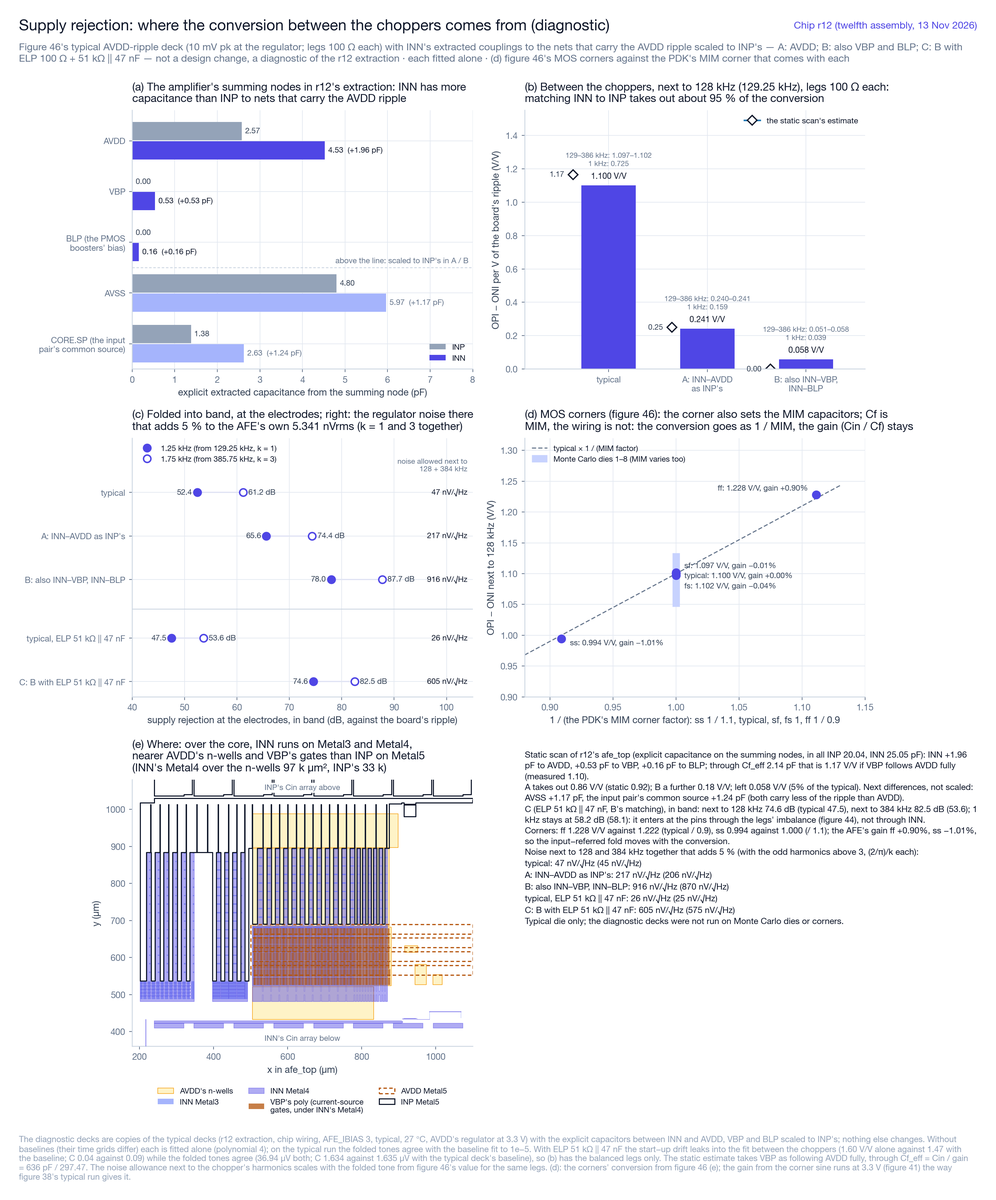
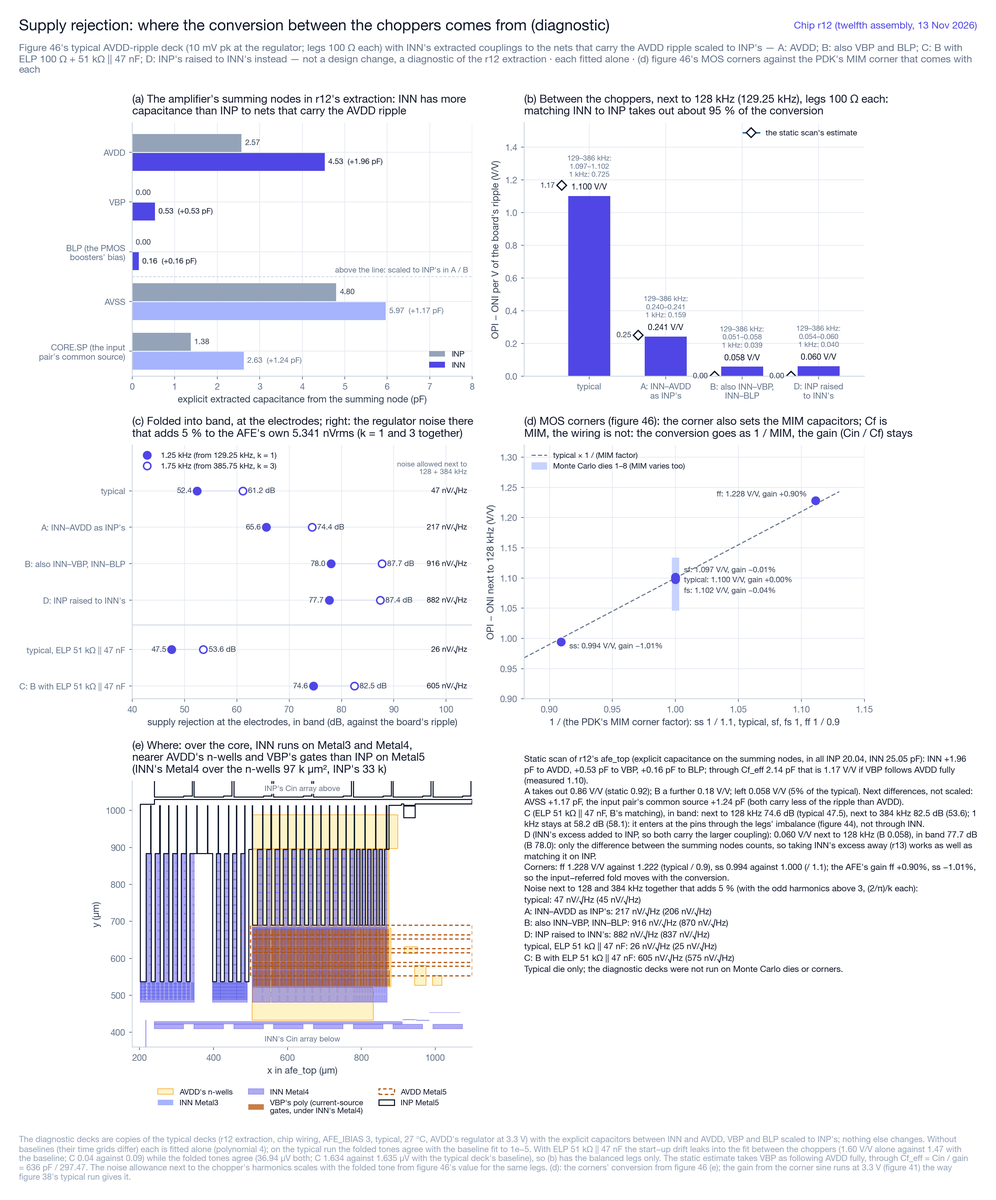
GF180 D7（11/19）：PSRR の診断 D の結果と図 47 への追加。INN の余分（AVDD へ 1.957 pF、VBP へ 0.534 pF、BLP へ 0.156 pF）を INP 側にも付加し、加算点間の差を解消した診断デッキ（r12、typical、電極釣り合い）を 13 時 5 分〜17 時 45 分にターミナルのタブで 10 ms まで実行（「Timestep too small」の発生なし）。チョッパ間の変換は 128 kHz 近傍で 0.060 V/V、帯域内は 128 kHz 近傍 77.7 dB、384 kHz 近傍 87.4 dB、許容雑音 882 nV/

diff --git a/first_tapeout_eeg/gf180/tapeout/viz/psrr_diag_fig.py b/first_tapeout_eeg/gf180/tapeout/viz/psrr_diag_fig.py
@@ -3,7 +3,8 @@
 
 psrr_diag.py's results (gf180/tapeout/pex/runs/psrr_r12/diag.json) and psrr.py's (results.json): the typical
 AVDD-ripple start deck of figure 46 with INN's extracted couplings to the nets that carry the AVDD ripple scaled to
-INP's (A: AVDD; B: also VBP and BLP; C: B with ELP 100 ohm + 51 kohm || 47 nF). Not a design change.
+INP's (A: AVDD; B: also VBP and BLP; C: B with ELP 100 ohm + 51 kohm || 47 nF; D: the other way, INP's raised to
+INN's by adding INN's excess to INP). Not a design change.
   (a) the summing nodes' extracted capacitance to those nets, INN against INP;
   (b) the conversion between the choppers next to 128 kHz, measured and from the static scan;
   (c) what the output chopper folds into band, at the electrodes;
@@ -38,7 +39,8 @@ NETS = [("AVDD/AVDD", "AVDD"), ("VBP/VBP", "VBP"), ("BLP/BLP", "BLP (the PMOS\nb
         ("CORE.SP/CORE.SP", "CORE.SP (the input\npair's common source)")]
 SCALED = 3                                            # the first three are the ones A / B scale
 LABEL = {"typical": "typical", "A": "A: INN–AVDD\nas INP's", "B": "B: also INN–VBP,\nINN–BLP",
-         "typical, ELP 51k||47n": "typical, ELP\n51 kΩ || 47 nF", "C": "C: B with ELP\n51 kΩ || 47 nF"}
+         "typical, ELP 51k||47n": "typical, ELP\n51 kΩ || 47 nF", "C": "C: B with ELP\n51 kΩ || 47 nF",
+         "D": "D: INP raised\nto INN's"}
 
 
 def minus(s):
@@ -62,7 +64,8 @@ def main():
                    + (", interim)" if interim else ")"),
                    "Figure 46's typical AVDD-ripple deck (10 mV pk at the regulator; legs 100 Ω each) with INN's extracted "
                    "couplings to the nets that carry the AVDD ripple scaled to INP's — A: AVDD; B: also VBP and BLP; C: B "
-                   "with ELP 100 Ω + 51 kΩ || 47 nF — not a design change, a diagnostic of the r12 extraction · each "
+                   "with ELP 100 Ω + 51 kΩ || 47 nF; D: INP's raised to INN's instead — not a design change, a diagnostic "
+                   "of the r12 extraction · each "
                    "fitted alone · (d) figure 46's MOS corners against the PDK's MIM corner that comes with each",
                    note=minus(
                        "The diagnostic decks are copies of the typical decks (r12 extraction, chip wiring, AFE_IBIAS 3, "
@@ -102,14 +105,14 @@ def main():
 
     # (b) the conversion between the choppers, legs 100 ohm
     ax = fig.add_subplot(gs[0, 1])
-    names = [n for n in ("typical", "A", "B") if n in runs]
+    names = [n for n in ("typical", "A", "B", "D") if n in runs]
     for i, n in enumerate(names):
         r = runs[n]
         v = tone(r, 1)["between_vv"]
         ax.bar(i, v, width=0.55, color=ACCENT)
         hi = [tone(r, k)["between_vv"] for k in (1, 2, 3)]
         ax.text(i, v + 0.03, f"{v:.3f} V/V", ha="center", va="bottom", fontsize=7.8, color=INK, fontweight="medium")
-        ax.text(i, v + 0.11, f"129–386 kHz: {min(hi):.3f}–{max(hi):.3f}\n1 kHz: {tone(r, 0)['between_vv']:.3f}",
+        ax.text(i, v + 0.11, f"129–386 kHz:\n{min(hi):.3f}–{max(hi):.3f}\n1 kHz: {tone(r, 0)['between_vv']:.3f}",
                 ha="center", va="bottom", fontsize=6.9, color=MUTED, linespacing=1.3)
         p = d["static_pred_vv"].get(n)
         if p is not None:
@@ -127,9 +130,9 @@ def main():
 
     # (c) folded into band
     ax = fig.add_subplot(gs[1, 0])
-    rows = ["typical", "A", "B", "typical, ELP 51k||47n", "C"]
+    rows = ["typical", "A", "B", "D", "typical, ELP 51k||47n", "C"]
     for i, n in enumerate(rows):
-        yy = i + (0.35 if i >= 3 else 0)
+        yy = i + (0.35 if i >= 4 else 0)
         if n not in runs:
             ax.text(64, yy, "running", va="center", ha="center", fontsize=7.6, color=MUTED)
             continue
@@ -143,8 +146,8 @@ def main():
         ax.text(104, yy, density(r["allowed_13"]), ha="right", va="center", fontsize=7.4, color=INK)
     ax.text(104, -0.62, "noise allowed next to\n128 + 384 kHz", ha="right", va="center", fontsize=7.0, color=MUTED,
             linespacing=1.2)
-    ax.axhline(2.68, color="#cbd5e1", lw=0.8)
-    ax.set_yticks([i + (0.35 if i >= 3 else 0) for i in range(len(rows))])
+    ax.axhline(3.68, color="#cbd5e1", lw=0.8)
+    ax.set_yticks([i + (0.35 if i >= 4 else 0) for i in range(len(rows))])
     ax.set_yticklabels([LABEL[n].replace("\n", " ") for n in rows], fontsize=8)
     ax.set_ylim(len(rows) - 0.3, -1.25)
     ax.set_xlim(40, 105)
@@ -238,6 +241,12 @@ def main():
                      f"({tone(u, 3)['psrr_board_db']:.1f}); 1 kHz stays at {tone(c_, 0)['psrr_board_db']:.1f} dB "
                      f"({tone(u, 0)['psrr_board_db']:.1f}): it enters at the pins through the legs' imbalance (figure 44), "
                      "not through INN.")
+    if "D" in runs and "B" in runs:
+        dd, bb = runs["D"], runs["B"]
+        items.append(f"D (INN's excess added to INP, so both carry the larger coupling): {tone(dd, 1)['between_vv']:.3f} V/V "
+                     f"next to 128 kHz (B {tone(bb, 1)['between_vv']:.3f}), in band {tone(dd, 1)['psrr_board_db']:.1f} dB "
+                     f"(B {tone(bb, 1)['psrr_board_db']:.1f}): only the difference between the summing nodes counts, so taking "
+                     "INN's excess away (r13) works as well as matching it on INP.")
     ff, ss = cs.get("ff"), cs.get("ss")
     if ff and ss:
         items.append(f"Corners: ff {ff['between_vv']:.3f} V/V against {ff['pred_vv']:.3f} (typical / 0.9), ss "
@@ -246,7 +255,7 @@ def main():
                      "with the conversion.")
     items.append("Noise next to 128 and 384 kHz together that adds 5 % (with the odd harmonics above 3, (2/π)/k each):")
     rows = [f"  {LABEL[n].replace(chr(10), ' ')}: {density(runs[n]['allowed_13'])} ({density(runs[n]['allowed_odd'])})"
-            for n in ("typical", "A", "B", "typical, ELP 51k||47n", "C") if n in runs]
+            for n in ("typical", "A", "B", "D", "typical, ELP 51k||47n", "C") if n in runs]
     items.append("\n".join(rows))
     items.append("Typical die only; the diagnostic decks were not run on Monte Carlo dies or corners.")
     txt = "\n".join(V.wrap(minus(x), 6.0, 8.2) for x in items)

diff --git a/first_tapeout_eeg/gf180/tapeout/pex/psrr_diag.py b/first_tapeout_eeg/gf180/tapeout/pex/psrr_diag.py
@@ -27,6 +27,9 @@ against the typical deck's 47.5 and 53.6 dB (the noise allowance 605 against 26 
 it enters at the pins through the legs' imbalance, not through INN. Its conversion between the choppers moves with the
 fit (0.04 and 0.09 V/V for k = 1 and 3 swap against the typical deck's baseline) while the folded tones agree (1.634
 against 1.635 uV next to 128 kHz).
+D (11/19 evening, the other way: INN's excess added to INP, legs 100 ohm): 0.060 V/V next to 128 kHz, in band 77.7 dB
+next to 128 kHz and 87.4 dB next to 384 kHz, the same as B (0.058 V/V, 78.0 and 87.7 dB): only the difference between
+the summing nodes converts the ripple; a coupling both carry alike does not (r13 takes INN's excess away).
 
 Usage: gf180/tools/venv310/bin/python gf180/tapeout/pex/psrr_diag.py --make     (writes runs/psrr_r12/diag_A, _B, _C)
        gf180/tools/venv310/bin/python gf180/tapeout/pex/psrr_diag.py --layout   (runs/psrr_r12/diag_layout.json)

diff --git a/first_tapeout_eeg/documentation/gf180_tapeout_tracker.md b/first_tapeout_eeg/documentation/gf180_tapeout_tracker.md
@@ -103,7 +103,7 @@
 | D4 | L3：AFE＋ADC＋DAC セル＋量子化器の短窓トランジスタ E2E。10/22：`gf180/tapeout/sim/e2e/e2e_deck.py`（AFE とそのクロックドライバ、ADC ブロック、バイアス生成、基準電圧のフィルタ。typical）で 70 µs を回した。16 kHz・フルスケールの正弦波で、AFE の出力（チョッパ周期の平均）の利得 268.9（周期平均の sinc を除くと約 276）、ADC まで含めた全体 282、量子化の残差 0.031（DAC の段の単位、ADC 単体と同じ）、AVDD 27.2 mA。窓が 16 kHz の 0.8 周期しかないので、利得の精度は数 %。AFE_RST を解除した瞬間の入力が Cin に残る起動時の現象を見つけた（AFE の文書）。1 本 45〜75 分。10/24：寄生込みの E2E（`gf180/tapeout/pex/pex_e2e.py`、`gf180_pex_20261023.md` の「寄生込みの E2E」、図 `documentation/figures/gf180/r9_20261029/e2e_pex/gf180_e2e_pex_r9_*.png`）。AFE と ADC を最終のチップ（B7、B4 の直し込み）の抽出に差し替え、Ch-A を横切る OUTP／OUTN のチップの配線（74／70 fF、片側 35.6 Ω）も足して、回路図と比べた。AFE の利得 291.4（回路図 291.5、配線込み 290.9）、全体 301.2〜301.9、AVDD 27.2 mA、O2 −33〜+34 mV で同等。量子化の残差は寄生込みで約 2 倍（0.017 → 0.032、帯域の外）。リセットの解除のあとの相 A／B の不釣り合い（寄生込みで 19 mV、時定数 143 µs で抜ける）で、ADC の入力の瞬時値は最大 297 mV（フルスケール 300 mV の内側）。仕様を外れるものはない。10/25：4 回目のチップ（電極の DC 電流の直しのあと）の抽出で回し直した。AFE の利得 291.3（配線込み 290.8）、全体 301.5〜302.5、量子化の残差 0.028／0.021。相 A／B の不釣り合いは 19 → −2.6 mV（その大きさは入力チョッパのクロックの結合の WP／WN の差で決まっていた）、ADC の入力の瞬時値は ±287 mV で回路図と同じ。10/26：5 回目のチップ（WN の配線抵抗の直しのあと）でも回し直し、ほぼ同じ（相 A／B −2.7 mV、量子化の残差 0.026／0.021、ADC の入力 ±287 mV）。10/26 夜：6 回目のチップ（Magic DRC の直しのあと）でも回し直し、ほぼ同じ（AFE の利得 291.3、相 A／B −2.7 mV、量子化の残差 0.025／0.021、ADC の入力 ±287 mV）。10/30：9 回目のチップ（ADC は C1・C2 を 1.25 倍にした 7 回目の抽出、AFE は 6 回目と同じ）で回し直した（`runs/e2e_r7/`。d4 と sch も今の回路図で）：AFE の利得 291.3（配線込み 290.8）、全体 299.8〜300.4、量子化の残差 0.016／0.017（回路図 0.017。寄生込みで増えなくなった）、相 A／B −2.7 mV、ADC の入力 ±287 mV。11/9：10 回目のチップ（量子化器のラッチのグラウンドを AVSS につないだ ADC の抽出）で 4 通りとも回し直し、すべて同じ値（`runs/e2e_r10/`。抽出は基板を AVSS とするので、前からラッチは AVSS につながった形で計算されていた）。11/13：11 回目と 12 回目の抽出でも回した（`runs/e2e_r11/`、`runs/e2e_r12/`）。寄生込みは AFE の利得 291.4、全体 299.8／300.4、残差 0.019／0.019。チップの配線込み（pexchip。OUTP／OUTN が約 20 Ω 長くなった）は 290.6、299.9／299.5、0.018／0.014 で、r10 と同じ大きさ。残り：コーナー | 11/17 | ▶（typical ✅、寄生込み ✅） |
 | D5 | 今回 rev の構成決定レビュー。判断が要るもの：ADC のポリ抵抗のフリッカ（11/12、D7、図 33。PDK の大きさを今の電流でとると、フルスケールで 16.26 bit）。11/12 に直す案を調べた（`gf180_realistic_eval_20261028.md` の「RIN と DAC1 を ppolyf_u に替える案」、図 `plan_20261112`、設計はまだ変えていない）：1 単位（300 kΩ）を幅 0.8 µm の ppolyf_u 2 本の直列にすると、雑音 0.069 倍で、フルスケールでも 16.57 bit。抵抗の間を 0.4 µm にし、OTA1 と第 2 段を東へ 28.9 µm ずらせば ADC に収まる（外形は同じ）。角は今と同じ ±20 %、温度による変化は約 1/10。DAC1 は偶成分が要求の 1/90 以下のまま、出力の電位差への感度が 1.59 倍（ループの HD3 約 −129 dBc）、BRK の時間は同じ。R21 も替えるとよい。替えるなら ADC のレイアウト、DRC／LVS、precheck、PEX、DAC1 とループの確認、通し（約 54 時間）をやり直す（1 週間ほど）。替えないなら、フルスケールの 16.26 bit を予測として明記し、チップで測る。勧めは替えるほう（ENOB はフルスケールに近い正弦波で測るため）。**11/12 にユーザーが替えると決めた**（RIN と DAC1、勧めのとおり R21 も ppolyf_u に。11 回目のチップで作業する。走っている 10 回目の通しは r10 の抽出だけを読むので、止めずに進める）。11/12〜13：11 回目のチップで替えた（E4）。作ったままの抵抗でフリッカを計算し直し、フルスケールで 0.29 nVrms、16.57 bit（入力が小さいときと同じ。`runs/adc_flicker_r11`）。11/13：外から指摘のあった、敏感な網の下を通るクロックとデータの線を、ユーザーの判断で 12 回目で直した（E3、E4）。AFE の通路の覆いで電極の DC 電流が ±1.56 → ±1.71 nA になるが、ユーザーの判断で覆いは残した。**発注の候補は r12**（E8）。**11/18 の構成決定（ユーザーの判断）**：チップは r12 のまま。AVDD は調整できるレギュレータでダイごとに合わせる（F2）。DAC で打ち消したオフセットの電流のためにチップは直さず、限界として記録する（D7、勧めに対する返事「go」）。**11/19 の判断（ユーザー）**：AVDD の 128 kHz の奇数倍のそばの PSRR のために、r13 で増幅器の入力 INN の配線を直す（D7、勧めのとおり。返事「r13 で直す」）。発注の候補は、r13 が DRC、LVS、precheck と性能の回し直しを通るまで r12 のまま | 11/19 | ▶ |
 | D6 | L4：重要ブロックの PEX 確認（チョッパの寄生結合、AFE 入力節点、積分器・DAC）。10/23：magic で寄生容量を抽出し（ネット名は KLayout の LVS の結果で回路図に対応づけ、MIM の基板容量は下の板へ補正）、入力の信号経路の配線抵抗は KLayout の R 抽出で求めた。AFE、ADC のループ、DAC1、OTA1 のチョッパを、回路図・抽出した素子だけ・寄生込みの 3 つで比べた（`gf180/tapeout/pex/`、`documentation/gf180_pex_20261023.md`）。寄生容量だけなら差は小さい（AFE の雑音 4.64 → 4.70 nVrms、利得 −0.2 %、HD3 −116 dBc、ADC のループの利得・CM・電流、積分器の整定は同等）。**仕様を外れるもの 4 つ**：① 入力の信号経路の配線抵抗が片側 76／119 Ω（コアの入力対のゲート配線 72／115、Cin の下の板の網 4.0、チョッパの EP／EN 0.35）で、AFE の雑音 19.1 nVrms、約 14.8 bit。② DAC1 の偶成分 0.47〜0.69 fC（要求 0.008 fC）で SNDR 約 70 dB。③ DC 経路のスイッチの CIB2 の結合の非対称で AFE の出力に 39 mV p-p のリップル。④ 量子化器の入力の結合の非対称で判定が平均 +2.4 LSB ずれる。原因と直し方（目標値つき）は文書の「直し方」。直したあと同じ流れで確かめる。10/24：4 件をレイアウトで直し（E3、E4）、チップを組み直して抽出と比較を回し直した（文書の「直したあとの確認」）。4 件とも仕様の内側に戻った：配線抵抗は片側 0.634／0.676 Ω（チップで測定。Cin の下の Metal3 の面は Tesselation）、DAC1 の偶成分 −0.0014 fC（123 dB）、リップル 3.62 mV p-p、量子化器の入力の結合はそろい、ループの残差 0.027。AFE の雑音は寄生込みで 4.81 nVrms、配線抵抗込みで 5.05 nVrms、総残差 6.05〜6.07 nVrms（16.45〜16.46 bit）で、16.50 bit に 0.04〜0.05 bit 足りない（片側 0.35 Ω まで下げるには AFE の配置の変更が要り、今回 rev はこの形）。抽出の補正を直した：magic が MIM の上の板に付ける、下の導体（Cin の下の Metal3 の面など）への容量を下の板へ移す（`pex.py` の `mim_shield`。AFE で WP–INP の見かけの 21.3 pF を消した）。**新しく 1 件が仕様を外れた**（直し方 1、2 の副作用）：INP と増幅器の出力 ONI／OPI の結合（P 側だけ 617／526 fF。コアの上端で INP を Cin のバスへつなぐ Metal5 の下を ONI／OPI の Metal4 が通る）で、フルスケールの HD2 −70 dBc（仕様 −111 dBc 以下）、利得 −2 % 前後。抽出からこの結合だけを除くと HD2 −114 dBc に戻る。E3 で直した（幹線を移して遮蔽、出力部の P 側を N 側の鏡映に。4 つの結合は 9 fF 以下、HD2〜HD5 −113.8／−117.2／−120.9／−137.7 dBc、利得は回路図に戻った）。リップルは 4.00 mV p-p（目標の境、クロックの線と出力の結合の P／N の差。帯域の外なので受け入れ）。チップを組み直した（E7）。2 回目までの歪みの確認は 2 kHz だけで、帯域内の低い周波数の HD2（DC 経路が 1 本で −87 dBc）は B7 の確認で見つかり、DC 経路を対称にして直した（0cb0fff4）。B7 と B4 の直しを入れた最終のチップ（3 回目、10/24）で確かめ直した：帯域内のフルスケールの HD2〜HD5 −132.7／−120.4／−160.9／−144.5 dBc、リップル 2.02 mV p-p、AFE の雑音 4.81 nVrms（配線抵抗込み 5.05）、配線抵抗は片側 0.634／0.676 Ω で変わらず。チップは DRC 違反なし、LVS 一致、穴埋めのあとの全 DRC も違反なし、precheck 通過。**10/25：信号がなくても電極に流れる DC 電流を調べて直した**（文書の「電極に流れる DC 電流（10/25）」）。3 回目の抽出の I_ELP −40.0／I_ELN +33.3 nA（`viz_data.py zin`）のうち、同相の −3.4 nA ずつは ngspice の GMIN による見かけ（抽出の入力 TG が PMOS M=1024・NMOS M=512 の 1 素子ずつで、接合ごとの GMIN が打ち消さない）で、実際は差動 ±36.6 nA。入力チョッパのゲートのクロックの結合が WP と WN で違い（チョッパの中のストラップの並びで WN だけが CIA／NCIA のピンの隣、ゲートの折り返しが WN の面の下、上端の WP の板、OFPH の西の線が WN の面の下）、交換器が電荷を一方の電極から他方へ運んでいた。電極の要求を 1 本あたり 1 nA 以下（1 MΩ で 1 mV）とし、1 MΩ で片側 37 mV（16.5 bit の前提の電極オフセット数 mV を外れる）なので不適合と判断して、E3 のレイアウトで直した：差動 ±1.65 nA（22 分の 1、ポンプに効く結合の差 −90.6 → +0.6 fF）、チップの配線を足して ±1.35 nA。残りはコアの INP／INN の寄生の非対称による（抽出で INP／INN を対称にすると差動 +0.5 nA）。今回 rev はこの値で受け入れる（1 MΩ で片側 1.65 mV、範囲 1 の内側）。雑音 4.811 nVrms、利得 297.89 は変わらない。副作用：チョッパの下の WN の面からゲートのレーンの通路を外したため、WN の W の配線抵抗が 0.339 → 0.570 Ω（通路を渡るのが Cin_N のバス 5 µm だけ）。配線抵抗込みの雑音 5.048 → 5.086 nVrms、総残差 6.05 → 6.08 nVrms（16.46 → 16.45 bit）。直すなら通路の上に WN の Metal5 だけを戻す（`gf180_pex_20261023.md`）。10/25 午後：可視化の図（`gf180_viz_20261024.md`）と、配線抵抗・歪み・寄生込みの E2E を 4 回目のチップで測り直した：帯域内の静的な HD2〜HD5 −165.8／−120.3／−148.9／−145.5 dBc、2 kHz −134.1／−118.2／−143.9／−141.6 dBc（仕様の内側）。10/25 夜：通路の上に WN の Metal5 を戻して直した（5 回目のチップ、E3）：WN の W 0.354 Ω、配線抵抗は両側 1.32 Ω（1.47 nVrms）、配線抵抗込みの雑音 5.049 nVrms、総残差 6.05〜6.07 nVrms（16.45〜16.46 bit、10/24 と同じ）。ポンプに効く結合の差 +0.61 → +0.80 fF、電極の DC 電流 ±1.56 nA、利得 297.89、リップル 2.37 mV p-p。10/26 朝：歪み、寄生込みの E2E、`viz_data.py` の AFE の組も 5 回目の抽出で回し直した（4 回目とほぼ同じ）：帯域内の静的な HD2〜HD5 −167.2／−120.3／−149.0／−145.5 dBc、2 kHz −134.2／−118.1／−143.0／−141.5 dBc、E2E の AFE の利得 291.3、相 A／B −2.7 mV、ADC の入力 ±287 mV。可視化の図 10、16〜24 も描き直した。10/26（6 回目、Magic DRC の直し：抵抗のコンタクトと MIM の Via4）：AFE と DAC1 を抽出し直して確かめた。雑音 4.811 nVrms（配線抵抗込み 5.050）、利得 297.89、リップル 2.37 mV p-p、電極の DC 電流 −1.55／+1.57 nA、DAC1 の偶成分 −0.00135／−0.00125 fC で 5 回目と同じ。配線抵抗の W は Cin の Via4 の分で 0.347／0.357 Ω（+3〜4 mΩ、`gf180_pex_20261023.md`）。10/26 夜：歪み（帯域内の静的な HD2〜HD5 −164.0／−120.3／−148.9／−146.0 dBc、2 kHz −133.9／−118.1／−141.4／−141.1 dBc）、寄生込みの E2E、`viz_data.py` の組、ADC のループ（利得 1.0040、残差 0.0318、判定が理想のしきい値と合うフレーム 91.2 %。3 回目の抽出からの差は 80 フレームの窓の揺れの範囲）、DAC1 の偶成分の行動モデル（123.0 dB）も 6 回目の抽出で回し直した。どれも 5 回目（ADC は 3 回目）とほぼ同じ。可視化の図は版ごとのフォルダ（`documentation/figures/gf180/r6_20261026/`）に全部描き直し、KLayout で描いたレイアウトの図 9 枚を足した。10/30：9 回目のチップ（今の版）の図を `documentation/figures/gf180/r9_20261029/` に全部描き直した。ADC は 7 回目の抽出（ループの利得 0.9974、残差 0.0202、判定 95.0 %、DAC1 の偶成分の行動モデル 123.0 dB）、AFE は 6 回目と同じ抽出、チップの配線を通す結果（雑音、入力経路の配線抵抗、起動、OUTP／OUTN の窓）は 9 回目で取り直した | 10/30 | ✅ |
-| D7 | 実際に近い条件での立ち上がりと性能（10/27〜、`gf180_realistic_eval_20261028.md`）。電源投入から（電源のランプ、`uic`）、RTL のリセットの順序、パッドリング、基板（仮定）とボンディングワイヤ、チップの配線（`pex_chipnets.py`：パッドセル、AVDD／AVSS の網とデカップリング、ブロックの間の配線と結合）、抽出した afe_top／eeg_bias／eeg_ref、モンテカルロ（工程と素子ごと。MIM と抵抗の素子ごとは仮の係数）、AVDD ±5 %（`gf180/tapeout/pex/afe_startup.py`）。雑音はチップの実際の動作点で測る（`afe_chip_noise.py`）。ADC を含めた電源投入からの通しは `e2e_startup.py`。10/28：雑音は上の予算の表のとおり（code 3 で 16.40 bit）。電極 0 V の立ち上がり（code 2、typical・±5 %・モンテカルロ 10）は、解除の 1 周期で −0.08〜−0.40 mV 振れ、7 µs 以内に −0.073 ± 0.002 mV（電極換算 −0.24 µV）に落ち着く。バイアスは電源投入から 0.91〜0.95 ms で 1 % 以内。通しのデッキは電源投入から AFE の解除後 50 µs まで回り、全体の利得 298.3。10/28〜29：AFE_IBIAS code 3 の書き込みを入れたモンテカルロ 30 と ±5 %、電極の DC オフセット、正弦波、VCM の容量 100 nF／1 µF、ADC 側を実際の条件で回した（ADC の C1・C2 を 1.25 倍にした）。10/31：9 回目のチップの配線で起動を回し直した。モンテカルロ 30 と ±5 % はすべて最後まで回り、解除後の出力は −0.075 ± 0.006 mV、0.1 mV まで 12 µs 以内、バイアスは 0.89〜0.97 ms で 1 % 以内で、6 回目と実質同じ。電極の DC オフセットは 300 mV まで打ち消せ、段の大きさは抽出のビットの重みで説明できる（どの範囲でも単調、残差の最大は範囲 1 で 153 µV、範囲 2 以上で 166 µV）。11/2：電源投入から CIC の出力までの通し（r6、r7、10 ms）が最後まで回った。有効な 3 サンプルはどれも RTL とビット一致し、電極から DATA までの利得は 306.6（r6 と r7 のサンプルの差は 7 LSB 以内）。11/8〜9：デジタル側（9 個の bi_24t、ブロックの電源電流、チップの DVDD／DVSS）を、9 回目の通しのチャンク 14 に入れて比べた（`digital_noise.py`）。リングの揺れは 18 → 59 mV p-p、ADC のデジタルの電源は 417 mV p-p。結合で AFE の出力にできる一定のずれは電極換算 0.21 nV で、DATA の約 1 LSB、計算の差（0.13 nV）と同じ大きさ。ADC の符号は 48 フレームとも一致した。この結合は MCLK に同期するので、一定のずれにしかならない。SPI の読み出しでも符号は一致し、周期ごとの差は 0.2 nV rms 以下。11/9：RAW の出力を動かす組（b3）も最後まで回った。AFE の入力の揺れは b1 の約 2 倍（同相 15.2 mV p-p、差動 16.7 µV p-p）になるが、出力の一定のずれは −0.11 nV、周期ごとの残りは 0.11 nV rms で、符号は 48 フレームとも一致した（図 31、`documentation/figures/gf180/r10_20261109/viz/`）。11/11：9 回目のチップの配線での通しも最後まで回った。有効な 3 サンプルはどれも RTL とビット一致し、7 回目より 0.064 % 大きい。差はすべて AFE の利得の差で、AFE の AVSS の持ち上がりが小さくなって AFE の電流が約 1 % 増えたため。ADC 側は 7 回目と同じだった。11/11：図 31 のデッキの ADC を 10 回目の抽出に替えて、5 本を回し直した（b2 は区切り点の近さで一度止まり、MISO を 0.125 ns ずらして回し直した）。5 本とも 48 フレームの ADC の符号が 7 回目の抽出のときと同じだった。結合の一定のずれは電極換算 0.30 nV で、計算の差（0.27 nV）と同じ大きさ。SPI の読み出しと RAW の出力でも、周期ごとの残りは 0.3 nV rms 以下。図 31 を描き直した。11/13：10 回目の通しも最後まで回った。有効な 3 サンプルはどれも RTL とビット一致し、9 回目との差は +4、−1、−3 LSB（1 本の中の続くサンプルどうしの違いと同じ大きさ）、電源と基準は 9 回目と同じ。11 回目の通しは、12 回目に替えたのでチャンク 4 で止めた。11/13：11 回目と 12 回目のチップの配線で雑音を回し直し、9 回目と 0.001 nVrms 以内で同じ（AFE_IBIAS 3 で typical 5.327 nVrms、モンテカルロ 30 の最悪 5.498 nVrms）。11/15：12 回目の起動のバッチは 50 本のうち 32 本が済み（モンテカルロ 18 本）、9 回目と同じ値（バイアス 0.91〜0.95 ms、解除から 0.1 mV まで 9 µs 以内、出力 −0.099 ± 0.006 mV、電極のオフセットの残差は出力で 0.06 mV 以内で同じ）。電源投入をプロセスの角 4 つ × AVDD ±5 % と電源の立ち上がり 10 µs〜100 ms で回し、20 本とも起動した（起動回路は AVDD 0.61〜1.03 V で切れる。図 37、`powerup_checks.py`）。基板への要求に、AVDD と外の基準を DVDD より先に上げないこと（アナログのパッドの ESD ダイオードが DVDD のリングへ向く）と、解除を電源が上がりきってから数えることを足した。11/16：12 回目の起動のバッチ 50 本と通し（71 時間）が終わった。通しの有効な 3 サンプルはどれも RTL とビット一致し、10 回目より −0.175 %（ADC の基準電圧 +0.057 %、AFE の利得 −0.116 %）。角での AFE の解除（図 38）：どの角でも動き出すが、BOOST_TRIM がリセット値 4/4 のままだと、フルスケールの HD3 が ss −97.6、sf −96.8、fs −106.1 dBc で要求（−111 dBc）に届かない。AVDD −5 % ではどのトリムでも届かない。AVDD を上げるとよくなり、3.40 V と角ごとのトリムで 5 つの角が届く。チップの窓は約 3.394〜3.456 V（図 41）。ADC は ADC の電源 3.39 V でも 3.245 V と同じに動く。ただし、typical を地図の 2/2 にすると、AVDD を上げた分だけ AFE の雑音が増える（3.45 V で 5.73 nVrms、予算で 16.47 bit。BTRIM_P を 4 以上にすれば平ら。図 42）。BTRIM_P 4 でも HD3 は届く：チップの HD3 は、typical 4/2 が 3.40 V で −117.0 dBc（2/2 の −116.8 と同じ）、リセット値の 4/4 が 3.40 V で −115.6、3.45 V で −116.4 dBc（要求に 4.6 dB 以上の余裕）。typical のトリムは 4/2 を勧める（雑音は平らで、予算は 3.45 V でも 16.56 bit。窓の上の端は ff 8/2 の約 3.460 V になる）。電極のオフセットで飽和した最初の電源投入（図 39）：書いても増幅器は出力チョッパの後ろで飽和したまま残るので、ホストは書くたびに AFE_RST を 100 µs 上げる（typical と ss で確かめた。ss では typical の M では残差が大きく、M の探索がもう 1 回要る）。パルスなしでも 300 mV は書いてから 2.82 ms で ADC の範囲に戻るが、11 ms でも出力は図 27 より入力換算約 −31 µV ずれ、入力のコモンモード（0.18 V 低い）と一緒に時定数約 47 ms で抜けていく（11/17、11 ms まで回した。パルスなら 0.5 µs で範囲に入り、2.5 ms 後に +0.7 µV）。ADC は過負荷から自分で戻る（最大 0.22 ms、図 40）。デジタル側（図 31）を 12 回目の通しのチャンク 14 で回し直した（4 本、23 時 44 分に済んだ）：48 フレームの ADC の符号はどの組でも一致し、結合の一定のずれは電極換算 0.02 nV（計算の差 0.25 nV より小さい）、SPI の読み出しは +0.42 nV、RAW の出力は +0.64 nV（周期ごとの残り 0.27 nV rms 以下）で、10 回目と同じ大きさ。リングと電源の揺れも 10 回目と同じ。図は 12 回目の 42 枚がそろい（39 は 11/17 に仕上げた）、11/17 に 43 を足した。11/17：PDK にない係数への余裕（図 43）：DAC1 の素子のばらつきを仮の係数の 8 倍にしても ENOB は変わらない（30 ダイの平均 16.60 bit）。入力抵抗の電圧係数は vc2 が約 300 ppm/V² まで 16.5 bit に届く。オフセット DAC は MIM のばらつき 4 倍まで単調で、運転中の窓の内側。チップを直す必要はない。11/17：同相の除去（CMRR）と電極の不釣り合い（`afe_startup.py` に体の同相と電極のインピーダンスを足し、`cmrr.py` で解析。図 44 は途中の版）。1 kHz で、釣り合った電極では 105.4 dB（チップ自身の分）、ELP に 51 kΩ ∥ 47 nF では 50.7 dB で、ほぼ全部が脚の電流が電極のインピーダンスを流れる分。脚 1 本から見た同相は 18.6 nS ∥ 138.5 pF（Cin を通る分 63.6 pF、入力チョッパのスイッチ 65.2 pF、パッドなど 9.7 pF。コンダクタンスのうち 6.1 nS は ngspice の既定の gmin の見かけ）。朝の見込み（−64 dB）はこの容量を落としていて、50 Hz では 54.3〜54.7 dB（100 mV pk の同相で電極換算 184〜193 µV pk）の見込み。11/18：基準（1 時 45 分に済んだ）を差し引いて当てはめ直しても同じ（105.4 dB、50.7 dB）。解除までは脚 1 本の同相が約 795 pF で、不釣り合いの 47 nF に残る電荷が時定数 2.4 ms で窓に入るので、当てはめに指数を足した。AFE_RST を上げているあいだは、チョッパが動いているとピンの差動が約 5.4 kΩ（Cin のスイッチト・キャパシタ。Cpf の打ち消しが働かない）になり、電極の DC オフセットが電極のコンデンサを充電する。51 kΩ ∥ 47 nF と 300 mV では、11/16 の手順（書くたびに 100 µs）で AFE が書いてから約 12 ms 飽和する見込み。図 39 は電極 100 Ω だったので出なかった。AFE_RST と一緒に CHOP_EN（同じ CONTROL）を下げる手順を、2 時 1 分から回して確かめている（`afe_saturation.py --zp --chop-hold`）。11/18：50 Hz の 2 本も 5 時 40 分ごろ 26 ms まで回った（1 周期）。51 kΩ ∥ 47 nF で 54.2 dB（100 mV pk の同相で電極換算 194 µV pk、フルスケールの 21 %。gmin の見かけを除くと 54.6 dB）、釣り合いで 151 dB で、見込みどおり。出力はシミュレーションのピンの差動と 0.04 % で合い（50 Hz の利得 297.58）、ほぼ全部が電極の側。脚のコンダクタンスのうち 12.2 nS は、Cin を通して見える入力のコモンモードの DC 経路（時定数 47 ms）。1 周期の当てはめでは、47 nF の指数をチップの側（脚の電流、体）にも入れると脚のアドミタンスが最大 30 % 動くので、出力とピンだけに入れた（当てはめを変えても 54.14〜54.26 dB）。CMRR のためにチップを直す必要はない。図 44 を仕上げた。11/18 の朝：DAC で打ち消した電極のオフセットには、解除のあとも約 5.4 kΩ がかかることが分かった（図 27 のランで 10〜300 mV とも 5.36〜5.44 kΩ。Cin のスイッチト・キャパシタで、Cpf は出力に出ている分しか補わない）。電極にオフセット / 5.4 kΩ（30 mV で 5.4 µA、300 mV で 54 µA）の DC 電流が流れ、10/23 の要求（電極 1 本 1 nA 以下）を DAC の 1 段（56 nA）から外れる。電極に抵抗 R_e があると、ピンに届くオフセットは 5.4 kΩ / (5.4 kΩ + R_e) 倍（51 kΩ で 300 → 28.4 mV）。未明の見立て（解除のあとは MΩ、書いてから約 12 ms 飽和）はこの点で誤り。D（電極 100 Ω、CHOP_EN を下げる）は、解除のあと入力のコモンモードがはじめから釣り合いにあり、図 27 より出力が電極換算 2.9 µV 釣り合いに近い。RTL のリセット値は変えないことを勧める。この DC 電流のために今回 rev でチップを直すことはせず、限界として記録する（11/18、朝の勧めに対する返事「go」）。B（51 kΩ ∥ 47 nF、M 983、CHOP_EN を下げる。6 時 21 分に 10 ms まで回った）：解除のときピンは 116 mV で、M 983（295.8 mV）に対して AFE は逆向きに飽和したまま残り、チップがピンを −349 mV へ引く（時定数 0.57 ms、10 ms で −348 mV、電極に 12.7 µA、ADC の入力 −1.80 V）。電極 100 Ω では同じ書き込みで解除と同時に範囲に入る。合わない M を残したまま待たないこと、パルスのあいだもチョッパを動かすことを、手順に書く（図 45、途中の版）。E、F（M 94、パルス 1 ms と 100 µs。8 時 47 分から回し直し、11 時 58 分に 10 ms まで回った）は、どちらも増幅器の入力 +5.0 mV（ADC の入力 +1.0 V）に落ち着き、範囲に戻らなかった。パルスの長さは行き着く先を変えず、行き着く先は M で決まる。M 94 は、ピンの単純な平均（28.4 mV）に合わせたもので、増幅器が取り込むチョッパの切り替えの直前の値（約 1.3 mV 高い）に合っていなかった。読み（見立て）：解除のあとは DAC で打ち消した分だけが電流を流す（M × 0.301 mV / 5.56 kΩ）ので、電極の電圧降下が M で動き、M の 1 段は増幅器の入力で 0.301 mV × (1 + R_e / 5.56 kΩ)、51 kΩ で約 3 mV（ADC の範囲 ±1.63 mV とほぼ同じ）。最良の M でも最大 ±1.5 mV が残り、約 55 kΩ（R_sc 5.67 kΩ）を超えると範囲に入らないオフセットが出る。原因は DAC で打ち消したオフセットの電流と同じ。G（M 98、99、100、パルス 1 ms。15 時 42〜46 分に 10 ms まで回った）で確かめた：範囲に入るのは M 100 だけで、ホストの読み（ADC の入力 / 297.5）は M 100 で −0.79 mV、M 99 で +1.63 mV（範囲の端）、M 98 で +2.55 mV、M 94 で +3.33 mV に落ち着く。範囲の中ではチップは電極から見て電流源（M × 0.301 mV / 5.67 kΩ。電極は 51 kΩ × 47 nF = 2.4 ms で動く）で、1 段は 3.0 mV（M 99 → 100 は範囲の端の圧縮で 2.42 mV）。範囲の外では Cpf が残差を補いきれず、チップが電極を引き戻す（時定数 0.35〜0.40 ms）。電極の抵抗の変化への感度は電流そのもの（5.3 µV/Ω、範囲の中心から 0.3 kΩ で範囲を出る）で、朝に書いた 0.50 µV/Ω（チップを抵抗とみた値）の約 10 倍だった。アクティブ電極なら問題は出ない。チップを直すかを、夕方にユーザーに判断をあおいでいる。A は B から読めるので回し直さない。11/18 の構成決定で、AVDD はダイごとに合わせると決めた（ユーザーの判断。トリムも試験でダイごとに、F2、F4）。11/18 の夜：同相の釣り合いの値を帯域内（チップの CIC が見る値、`cmrr.py` の inband）で測り直した。1 kHz の 105.4 dB（0.52 µV）は、チョッパの間で起きる変換（出力のチョッパで ADC の入力に矩形波として出る。同相 97.5 mV pk で 104.7 mV pk、50 Hz では 99.95 mV pk で 7.1 mV）を、チョッパ周期の平均が折り返した見かけで、帯域内では 148 dB（50 Hz は 147 dB）。不釣り合いの値は 0.13 % 以内で同じで、結論は変わらない。図 44 を直した。実際のレギュレータの PSRR は、21 時 44 分から AVDD と DVDD のリップル（電極は釣り合いと 51 kΩ ∥ 47 nF）を回している（`afe_startup.py --rip`、`psrr.py`）。11/19：PSRR の typical（図 46）。低い周波数のリップルはチョッパで除かれる（釣り合いで AVDD の 1 kHz 139 dB、DVDD 197 dB）。AVDD の 128 kHz の奇数倍のそばは、チョッパの間の変換（増幅器の出力に 1.10 V/V）が出力のチョッパで帯域に戻り、52.4 dB（384 kHz のそばは 61.2 dB、偶数倍は 132 dB）。51 kΩ ∥ 47 nF では帯域内の AVDD が 50 Hz で 62.5 dB（脚 1 本の AVDD への 59 pF：入力スイッチのウェル 24、Cin を通る分 24、残り 11）。基板への要求を F2 の (4) に書いた。モンテカルロ 8 と MOS の角 4 を 1 時 8 分〜7 時 57 分に回した。8 ダイは 128 kHz のそばで 52.1〜52.8 dB、チョッパの間の変換 1.05〜1.13 V/V で typical と同じ（ミスマッチではない）。角は ff が 51.5 dB（1.23 V/V）、ss が 53.2 dB（0.99 V/V）。F2 の (4) を ff から約 40 nV/√Hz に決め直した。変換の出どころ：抽出では INN が INP より AVDD に 1.96 pF、VBP に 0.53 pF、BLP に 0.16 pF 多い。この容量を INP にそろえた診断（A：AVDD、B：VBP と BLP も。設計の変更ではない）で、変換は 1.10 → 0.241 → 0.058 V/V、128 kHz のそばは 52.4 → 65.6 → 78.0 dB（図 47）。変換の約 95 % は INN の余分な配線の容量から来る。場所は増幅器のコアの上で、INN は Metal3 と Metal4、INP は Metal5 を通る（INN の Metal4 が AVDD の n-well の上に 97,000 µm²、VBP のゲートの上に 38,000 µm²）。角で動くのは、PDK の角が MIM の角（ff 0.9 倍、ss 1.1 倍）も変え、変換が MIM の Cf に反比例するため（AFE の利得は 1 % 以内）。ELP に 51 kΩ ∥ 47 nF でそろえた C（12 時 34 分）でも、128 kHz のそばは 47.5 → 74.6 dB、384 kHz のそばは 53.6 → 82.5 dB、許せる雑音は 26 → 605 nV/√Hz（1 kHz の 58.1 dB は、ピンで脚の不釣り合いから入る分なので変わらない）。**11/19 の 13 時に、ユーザーが r13 で INN の配線を直すと決めた。** 直し方を選ぶため、INN の余分を INP に足した診断 D（INP から AVDD に +1.96 pF、VBP に +0.53 pF、BLP に +0.16 pF）を 13 時 5 分からターミナルのタブで回している。BLP は PMOS のブースタのバイアス（AVDD の側）で、INP の相手は同じ BLP（前は BLN と書いていたが、どちらも 0 fF で A〜C は同じ） | 11/19 | ▶ |
+| D7 | 実際に近い条件での立ち上がりと性能（10/27〜、`gf180_realistic_eval_20261028.md`）。電源投入から（電源のランプ、`uic`）、RTL のリセットの順序、パッドリング、基板（仮定）とボンディングワイヤ、チップの配線（`pex_chipnets.py`：パッドセル、AVDD／AVSS の網とデカップリング、ブロックの間の配線と結合）、抽出した afe_top／eeg_bias／eeg_ref、モンテカルロ（工程と素子ごと。MIM と抵抗の素子ごとは仮の係数）、AVDD ±5 %（`gf180/tapeout/pex/afe_startup.py`）。雑音はチップの実際の動作点で測る（`afe_chip_noise.py`）。ADC を含めた電源投入からの通しは `e2e_startup.py`。10/28：雑音は上の予算の表のとおり（code 3 で 16.40 bit）。電極 0 V の立ち上がり（code 2、typical・±5 %・モンテカルロ 10）は、解除の 1 周期で −0.08〜−0.40 mV 振れ、7 µs 以内に −0.073 ± 0.002 mV（電極換算 −0.24 µV）に落ち着く。バイアスは電源投入から 0.91〜0.95 ms で 1 % 以内。通しのデッキは電源投入から AFE の解除後 50 µs まで回り、全体の利得 298.3。10/28〜29：AFE_IBIAS code 3 の書き込みを入れたモンテカルロ 30 と ±5 %、電極の DC オフセット、正弦波、VCM の容量 100 nF／1 µF、ADC 側を実際の条件で回した（ADC の C1・C2 を 1.25 倍にした）。10/31：9 回目のチップの配線で起動を回し直した。モンテカルロ 30 と ±5 % はすべて最後まで回り、解除後の出力は −0.075 ± 0.006 mV、0.1 mV まで 12 µs 以内、バイアスは 0.89〜0.97 ms で 1 % 以内で、6 回目と実質同じ。電極の DC オフセットは 300 mV まで打ち消せ、段の大きさは抽出のビットの重みで説明できる（どの範囲でも単調、残差の最大は範囲 1 で 153 µV、範囲 2 以上で 166 µV）。11/2：電源投入から CIC の出力までの通し（r6、r7、10 ms）が最後まで回った。有効な 3 サンプルはどれも RTL とビット一致し、電極から DATA までの利得は 306.6（r6 と r7 のサンプルの差は 7 LSB 以内）。11/8〜9：デジタル側（9 個の bi_24t、ブロックの電源電流、チップの DVDD／DVSS）を、9 回目の通しのチャンク 14 に入れて比べた（`digital_noise.py`）。リングの揺れは 18 → 59 mV p-p、ADC のデジタルの電源は 417 mV p-p。結合で AFE の出力にできる一定のずれは電極換算 0.21 nV で、DATA の約 1 LSB、計算の差（0.13 nV）と同じ大きさ。ADC の符号は 48 フレームとも一致した。この結合は MCLK に同期するので、一定のずれにしかならない。SPI の読み出しでも符号は一致し、周期ごとの差は 0.2 nV rms 以下。11/9：RAW の出力を動かす組（b3）も最後まで回った。AFE の入力の揺れは b1 の約 2 倍（同相 15.2 mV p-p、差動 16.7 µV p-p）になるが、出力の一定のずれは −0.11 nV、周期ごとの残りは 0.11 nV rms で、符号は 48 フレームとも一致した（図 31、`documentation/figures/gf180/r10_20261109/viz/`）。11/11：9 回目のチップの配線での通しも最後まで回った。有効な 3 サンプルはどれも RTL とビット一致し、7 回目より 0.064 % 大きい。差はすべて AFE の利得の差で、AFE の AVSS の持ち上がりが小さくなって AFE の電流が約 1 % 増えたため。ADC 側は 7 回目と同じだった。11/11：図 31 のデッキの ADC を 10 回目の抽出に替えて、5 本を回し直した（b2 は区切り点の近さで一度止まり、MISO を 0.125 ns ずらして回し直した）。5 本とも 48 フレームの ADC の符号が 7 回目の抽出のときと同じだった。結合の一定のずれは電極換算 0.30 nV で、計算の差（0.27 nV）と同じ大きさ。SPI の読み出しと RAW の出力でも、周期ごとの残りは 0.3 nV rms 以下。図 31 を描き直した。11/13：10 回目の通しも最後まで回った。有効な 3 サンプルはどれも RTL とビット一致し、9 回目との差は +4、−1、−3 LSB（1 本の中の続くサンプルどうしの違いと同じ大きさ）、電源と基準は 9 回目と同じ。11 回目の通しは、12 回目に替えたのでチャンク 4 で止めた。11/13：11 回目と 12 回目のチップの配線で雑音を回し直し、9 回目と 0.001 nVrms 以内で同じ（AFE_IBIAS 3 で typical 5.327 nVrms、モンテカルロ 30 の最悪 5.498 nVrms）。11/15：12 回目の起動のバッチは 50 本のうち 32 本が済み（モンテカルロ 18 本）、9 回目と同じ値（バイアス 0.91〜0.95 ms、解除から 0.1 mV まで 9 µs 以内、出力 −0.099 ± 0.006 mV、電極のオフセットの残差は出力で 0.06 mV 以内で同じ）。電源投入をプロセスの角 4 つ × AVDD ±5 % と電源の立ち上がり 10 µs〜100 ms で回し、20 本とも起動した（起動回路は AVDD 0.61〜1.03 V で切れる。図 37、`powerup_checks.py`）。基板への要求に、AVDD と外の基準を DVDD より先に上げないこと（アナログのパッドの ESD ダイオードが DVDD のリングへ向く）と、解除を電源が上がりきってから数えることを足した。11/16：12 回目の起動のバッチ 50 本と通し（71 時間）が終わった。通しの有効な 3 サンプルはどれも RTL とビット一致し、10 回目より −0.175 %（ADC の基準電圧 +0.057 %、AFE の利得 −0.116 %）。角での AFE の解除（図 38）：どの角でも動き出すが、BOOST_TRIM がリセット値 4/4 のままだと、フルスケールの HD3 が ss −97.6、sf −96.8、fs −106.1 dBc で要求（−111 dBc）に届かない。AVDD −5 % ではどのトリムでも届かない。AVDD を上げるとよくなり、3.40 V と角ごとのトリムで 5 つの角が届く。チップの窓は約 3.394〜3.456 V（図 41）。ADC は ADC の電源 3.39 V でも 3.245 V と同じに動く。ただし、typical を地図の 2/2 にすると、AVDD を上げた分だけ AFE の雑音が増える（3.45 V で 5.73 nVrms、予算で 16.47 bit。BTRIM_P を 4 以上にすれば平ら。図 42）。BTRIM_P 4 でも HD3 は届く：チップの HD3 は、typical 4/2 が 3.40 V で −117.0 dBc（2/2 の −116.8 と同じ）、リセット値の 4/4 が 3.40 V で −115.6、3.45 V で −116.4 dBc（要求に 4.6 dB 以上の余裕）。typical のトリムは 4/2 を勧める（雑音は平らで、予算は 3.45 V でも 16.56 bit。窓の上の端は ff 8/2 の約 3.460 V になる）。電極のオフセットで飽和した最初の電源投入（図 39）：書いても増幅器は出力チョッパの後ろで飽和したまま残るので、ホストは書くたびに AFE_RST を 100 µs 上げる（typical と ss で確かめた。ss では typical の M では残差が大きく、M の探索がもう 1 回要る）。パルスなしでも 300 mV は書いてから 2.82 ms で ADC の範囲に戻るが、11 ms でも出力は図 27 より入力換算約 −31 µV ずれ、入力のコモンモード（0.18 V 低い）と一緒に時定数約 47 ms で抜けていく（11/17、11 ms まで回した。パルスなら 0.5 µs で範囲に入り、2.5 ms 後に +0.7 µV）。ADC は過負荷から自分で戻る（最大 0.22 ms、図 40）。デジタル側（図 31）を 12 回目の通しのチャンク 14 で回し直した（4 本、23 時 44 分に済んだ）：48 フレームの ADC の符号はどの組でも一致し、結合の一定のずれは電極換算 0.02 nV（計算の差 0.25 nV より小さい）、SPI の読み出しは +0.42 nV、RAW の出力は +0.64 nV（周期ごとの残り 0.27 nV rms 以下）で、10 回目と同じ大きさ。リングと電源の揺れも 10 回目と同じ。図は 12 回目の 42 枚がそろい（39 は 11/17 に仕上げた）、11/17 に 43 を足した。11/17：PDK にない係数への余裕（図 43）：DAC1 の素子のばらつきを仮の係数の 8 倍にしても ENOB は変わらない（30 ダイの平均 16.60 bit）。入力抵抗の電圧係数は vc2 が約 300 ppm/V² まで 16.5 bit に届く。オフセット DAC は MIM のばらつき 4 倍まで単調で、運転中の窓の内側。チップを直す必要はない。11/17：同相の除去（CMRR）と電極の不釣り合い（`afe_startup.py` に体の同相と電極のインピーダンスを足し、`cmrr.py` で解析。図 44 は途中の版）。1 kHz で、釣り合った電極では 105.4 dB（チップ自身の分）、ELP に 51 kΩ ∥ 47 nF では 50.7 dB で、ほぼ全部が脚の電流が電極のインピーダンスを流れる分。脚 1 本から見た同相は 18.6 nS ∥ 138.5 pF（Cin を通る分 63.6 pF、入力チョッパのスイッチ 65.2 pF、パッドなど 9.7 pF。コンダクタンスのうち 6.1 nS は ngspice の既定の gmin の見かけ）。朝の見込み（−64 dB）はこの容量を落としていて、50 Hz では 54.3〜54.7 dB（100 mV pk の同相で電極換算 184〜193 µV pk）の見込み。11/18：基準（1 時 45 分に済んだ）を差し引いて当てはめ直しても同じ（105.4 dB、50.7 dB）。解除までは脚 1 本の同相が約 795 pF で、不釣り合いの 47 nF に残る電荷が時定数 2.4 ms で窓に入るので、当てはめに指数を足した。AFE_RST を上げているあいだは、チョッパが動いているとピンの差動が約 5.4 kΩ（Cin のスイッチト・キャパシタ。Cpf の打ち消しが働かない）になり、電極の DC オフセットが電極のコンデンサを充電する。51 kΩ ∥ 47 nF と 300 mV では、11/16 の手順（書くたびに 100 µs）で AFE が書いてから約 12 ms 飽和する見込み。図 39 は電極 100 Ω だったので出なかった。AFE_RST と一緒に CHOP_EN（同じ CONTROL）を下げる手順を、2 時 1 分から回して確かめている（`afe_saturation.py --zp --chop-hold`）。11/18：50 Hz の 2 本も 5 時 40 分ごろ 26 ms まで回った（1 周期）。51 kΩ ∥ 47 nF で 54.2 dB（100 mV pk の同相で電極換算 194 µV pk、フルスケールの 21 %。gmin の見かけを除くと 54.6 dB）、釣り合いで 151 dB で、見込みどおり。出力はシミュレーションのピンの差動と 0.04 % で合い（50 Hz の利得 297.58）、ほぼ全部が電極の側。脚のコンダクタンスのうち 12.2 nS は、Cin を通して見える入力のコモンモードの DC 経路（時定数 47 ms）。1 周期の当てはめでは、47 nF の指数をチップの側（脚の電流、体）にも入れると脚のアドミタンスが最大 30 % 動くので、出力とピンだけに入れた（当てはめを変えても 54.14〜54.26 dB）。CMRR のためにチップを直す必要はない。図 44 を仕上げた。11/18 の朝：DAC で打ち消した電極のオフセットには、解除のあとも約 5.4 kΩ がかかることが分かった（図 27 のランで 10〜300 mV とも 5.36〜5.44 kΩ。Cin のスイッチト・キャパシタで、Cpf は出力に出ている分しか補わない）。電極にオフセット / 5.4 kΩ（30 mV で 5.4 µA、300 mV で 54 µA）の DC 電流が流れ、10/23 の要求（電極 1 本 1 nA 以下）を DAC の 1 段（56 nA）から外れる。電極に抵抗 R_e があると、ピンに届くオフセットは 5.4 kΩ / (5.4 kΩ + R_e) 倍（51 kΩ で 300 → 28.4 mV）。未明の見立て（解除のあとは MΩ、書いてから約 12 ms 飽和）はこの点で誤り。D（電極 100 Ω、CHOP_EN を下げる）は、解除のあと入力のコモンモードがはじめから釣り合いにあり、図 27 より出力が電極換算 2.9 µV 釣り合いに近い。RTL のリセット値は変えないことを勧める。この DC 電流のために今回 rev でチップを直すことはせず、限界として記録する（11/18、朝の勧めに対する返事「go」）。B（51 kΩ ∥ 47 nF、M 983、CHOP_EN を下げる。6 時 21 分に 10 ms まで回った）：解除のときピンは 116 mV で、M 983（295.8 mV）に対して AFE は逆向きに飽和したまま残り、チップがピンを −349 mV へ引く（時定数 0.57 ms、10 ms で −348 mV、電極に 12.7 µA、ADC の入力 −1.80 V）。電極 100 Ω では同じ書き込みで解除と同時に範囲に入る。合わない M を残したまま待たないこと、パルスのあいだもチョッパを動かすことを、手順に書く（図 45、途中の版）。E、F（M 94、パルス 1 ms と 100 µs。8 時 47 分から回し直し、11 時 58 分に 10 ms まで回った）は、どちらも増幅器の入力 +5.0 mV（ADC の入力 +1.0 V）に落ち着き、範囲に戻らなかった。パルスの長さは行き着く先を変えず、行き着く先は M で決まる。M 94 は、ピンの単純な平均（28.4 mV）に合わせたもので、増幅器が取り込むチョッパの切り替えの直前の値（約 1.3 mV 高い）に合っていなかった。読み（見立て）：解除のあとは DAC で打ち消した分だけが電流を流す（M × 0.301 mV / 5.56 kΩ）ので、電極の電圧降下が M で動き、M の 1 段は増幅器の入力で 0.301 mV × (1 + R_e / 5.56 kΩ)、51 kΩ で約 3 mV（ADC の範囲 ±1.63 mV とほぼ同じ）。最良の M でも最大 ±1.5 mV が残り、約 55 kΩ（R_sc 5.67 kΩ）を超えると範囲に入らないオフセットが出る。原因は DAC で打ち消したオフセットの電流と同じ。G（M 98、99、100、パルス 1 ms。15 時 42〜46 分に 10 ms まで回った）で確かめた：範囲に入るのは M 100 だけで、ホストの読み（ADC の入力 / 297.5）は M 100 で −0.79 mV、M 99 で +1.63 mV（範囲の端）、M 98 で +2.55 mV、M 94 で +3.33 mV に落ち着く。範囲の中ではチップは電極から見て電流源（M × 0.301 mV / 5.67 kΩ。電極は 51 kΩ × 47 nF = 2.4 ms で動く）で、1 段は 3.0 mV（M 99 → 100 は範囲の端の圧縮で 2.42 mV）。範囲の外では Cpf が残差を補いきれず、チップが電極を引き戻す（時定数 0.35〜0.40 ms）。電極の抵抗の変化への感度は電流そのもの（5.3 µV/Ω、範囲の中心から 0.3 kΩ で範囲を出る）で、朝に書いた 0.50 µV/Ω（チップを抵抗とみた値）の約 10 倍だった。アクティブ電極なら問題は出ない。チップを直すかを、夕方にユーザーに判断をあおいでいる。A は B から読めるので回し直さない。11/18 の構成決定で、AVDD はダイごとに合わせると決めた（ユーザーの判断。トリムも試験でダイごとに、F2、F4）。11/18 の夜：同相の釣り合いの値を帯域内（チップの CIC が見る値、`cmrr.py` の inband）で測り直した。1 kHz の 105.4 dB（0.52 µV）は、チョッパの間で起きる変換（出力のチョッパで ADC の入力に矩形波として出る。同相 97.5 mV pk で 104.7 mV pk、50 Hz では 99.95 mV pk で 7.1 mV）を、チョッパ周期の平均が折り返した見かけで、帯域内では 148 dB（50 Hz は 147 dB）。不釣り合いの値は 0.13 % 以内で同じで、結論は変わらない。図 44 を直した。実際のレギュレータの PSRR は、21 時 44 分から AVDD と DVDD のリップル（電極は釣り合いと 51 kΩ ∥ 47 nF）を回している（`afe_startup.py --rip`、`psrr.py`）。11/19：PSRR の typical（図 46）。低い周波数のリップルはチョッパで除かれる（釣り合いで AVDD の 1 kHz 139 dB、DVDD 197 dB）。AVDD の 128 kHz の奇数倍のそばは、チョッパの間の変換（増幅器の出力に 1.10 V/V）が出力のチョッパで帯域に戻り、52.4 dB（384 kHz のそばは 61.2 dB、偶数倍は 132 dB）。51 kΩ ∥ 47 nF では帯域内の AVDD が 50 Hz で 62.5 dB（脚 1 本の AVDD への 59 pF：入力スイッチのウェル 24、Cin を通る分 24、残り 11）。基板への要求を F2 の (4) に書いた。モンテカルロ 8 と MOS の角 4 を 1 時 8 分〜7 時 57 分に回した。8 ダイは 128 kHz のそばで 52.1〜52.8 dB、チョッパの間の変換 1.05〜1.13 V/V で typical と同じ（ミスマッチではない）。角は ff が 51.5 dB（1.23 V/V）、ss が 53.2 dB（0.99 V/V）。F2 の (4) を ff から約 40 nV/√Hz に決め直した。変換の出どころ：抽出では INN が INP より AVDD に 1.96 pF、VBP に 0.53 pF、BLP に 0.16 pF 多い。この容量を INP にそろえた診断（A：AVDD、B：VBP と BLP も。設計の変更ではない）で、変換は 1.10 → 0.241 → 0.058 V/V、128 kHz のそばは 52.4 → 65.6 → 78.0 dB（図 47）。変換の約 95 % は INN の余分な配線の容量から来る。場所は増幅器のコアの上で、INN は Metal3 と Metal4、INP は Metal5 を通る（INN の Metal4 が AVDD の n-well の上に 97,000 µm²、VBP のゲートの上に 38,000 µm²）。角で動くのは、PDK の角が MIM の角（ff 0.9 倍、ss 1.1 倍）も変え、変換が MIM の Cf に反比例するため（AFE の利得は 1 % 以内）。ELP に 51 kΩ ∥ 47 nF でそろえた C（12 時 34 分）でも、128 kHz のそばは 47.5 → 74.6 dB、384 kHz のそばは 53.6 → 82.5 dB、許せる雑音は 26 → 605 nV/√Hz（1 kHz の 58.1 dB は、ピンで脚の不釣り合いから入る分なので変わらない）。**11/19 の 13 時に、ユーザーが r13 で INN の配線を直すと決めた。** 直し方を選ぶため、INN の余分を INP に足した診断 D（INP から AVDD に +1.96 pF、VBP に +0.53 pF、BLP に +0.16 pF）を 13 時 5 分からターミナルのタブで実行し、17 時 45 分に完了。128 kHz 近傍 77.7 dB、変換 0.060 V/V で B（78.0 dB、0.058 V/V）と同等であり、変換は加算点間の容量の差のみで決まることを確認（r13 の修正方針と整合。図 47 に D を追加）。BLP は PMOS のブースタのバイアス（AVDD の側）で、INP の相手は同じ BLP（前は BLN と書いていたが、どちらも 0 fF で A〜C は同じ） | 11/19 | ▶ |
 
 ## E. レイアウトと統合
 

diff --git a/first_tapeout_eeg/documentation/weekly_reports/wr_2026-1113-1119.md b/first_tapeout_eeg/documentation/weekly_reports/wr_2026-1113-1119.md
@@ -180,6 +180,7 @@ AVDD または DVDD のレギュレータ出力に 10 mV pk の 4 トーン（1 
   - この容量を INP に揃えた診断デッキ（設計変更ではない）では、AVDD のみで変換が 0.241 V/V（128 kHz 近傍 65.6 dB）、VBP と BLP も揃えると 0.058 V/V（78.0 dB、384 kHz 近傍 87.7 dB）に低下。**変換の約 95 % は INN の余分な配線容量に起因。** 発生箇所は増幅器コアの上であり、INN は Metal3 と Metal4、INP は Metal5 を通過するため、INN のみが下層の AVDD の n-well と電流源のゲート（VBP）に近接（図 47 の (e)）。揃えた場合、128 kHz 近傍の許容雑音は typical で 47 から約 900 nV/√Hz に緩和。
   - コーナーで変換が −10〜+12 % 変動するのは、PDK のコーナーが MIM のコーナー（ff 0.9 倍、ss 1.1 倍）も変化させ、変換が帰還容量 Cf（MIM）に反比例するため（ff 1.228 V/V、予測 1.222）。AFE の利得（Cin / Cf）の変動は 1 % 以内であり、F2 の (4) の値は変更なし。
   - ELP に 51 kΩ ∥ 47 nF の電極で揃えた C（12 時 34 分完了）：128 kHz 近傍は 47.5 → 74.6 dB、384 kHz 近傍は 53.6 → 82.5 dB、許容雑音は 26 → 605 nV/√Hz。1 kHz（58.1 → 58.2 dB）は、ピンにおける脚の不釣り合いによる成分のため変化なし。修正後の基板要求で最も厳しいのは、帯域内の約 225 nV/√Hz（51 kΩ ∥ 47 nF）。13 時、r13 で修正することに決定（後述の「現時点の判断」）。
+  - INN の余分を INP 側に付加して差を解消した診断 D（17 時 45 分完了）：128 kHz 近傍 77.7 dB、384 kHz 近傍 87.4 dB、変換 0.060 V/V で、B（78.0 dB、87.7 dB、0.058 V/V）と同等。変換は加算点間の容量の差のみで決まり、両側に等しく付く結合は寄与しない。r13 の修正方針（INN の余分の除去）と整合。
 
 ![電源除去比（図 46）](../figures/gf180/r12_20261113/viz/gf180_viz_r12_46_psrr.png)
 
@@ -221,7 +222,7 @@ AVDD または DVDD のレギュレータ出力に 10 mV pk の 4 トーン（1 
   - AVDD：可変レギュレータによりダイごとに調整（決定。ss のダイは 3.45 V、その他は 3.40〜3.43 V。試験時に正弦波の THD を確認しながら BOOST_TRIM と併せて決定）。
   - BOOST_TRIM：AVDD と併せ、試験時に THD と雑音から決定した値をダイごとに書き込む。typical の初期値は 4/2（ファームウェア）。
   - 電極オフセットの手順：DAC 書き込みのたびに AFE_RST のパルスを印加し、パルス中もチョッパを動作させる。パルス長は収束先に影響しない（E、F）。高抵抗の電極では M の 1 段が約 3 mV となるため、M は探索により決定。G（M 98〜100）で確認し、範囲内に入るのは M 100 のみ。ホストは電極が整定するまで（5 × R_e × C_e）待機して読み取る。
-- **PSRR**：128 kHz 奇数倍近傍の折り返しは、INN の余分な配線容量に起因。揃えれば 51 kΩ ∥ 47 nF の電極でも 74.6 dB（診断 C）。**r13 で INN の配線を修正（11/19 13 時決定）。** 13 回目チップで、INP と INN の配線帯を入力対の上と同様にコア全体で交互に配置（電流源、ブースタ、カスコード、出力帯の上も含む。その他の網の配線は r12 と同一）。抽出での INN − INP は AVDD +1,957 → +234 fF、VBP +535 → +18 fF、BLP +156 → +3 fF。チップは DRC、穴埋め後の全 DRC、KLayout によるチップ全体の LVS とコアの LVS、precheck（pre_20261119_r13）を通過。r13 の PSRR（typical、コーナー、モンテカルロ）と、Magic／Netgen によるチップ全体の LVS を実行中。INN の余分を INP に付加した診断 D（r12 のデッキ）も実行中。発注候補は、r13 が通過するまで r12 のまま。修正までの基板要求は F2 の (4)（約 40 nV/√Hz、51 kΩ ∥ 47 nF で約 22 nV/√Hz）。
+- **PSRR**：128 kHz 奇数倍近傍の折り返しは、INN の余分な配線容量に起因。揃えれば 51 kΩ ∥ 47 nF の電極でも 74.6 dB（診断 C）。**r13 で INN の配線を修正（11/19 13 時決定）。** 13 回目チップで、INP と INN の配線帯を入力対の上と同様にコア全体で交互に配置（電流源、ブースタ、カスコード、出力帯の上も含む。その他の網の配線は r12 と同一）。抽出での INN − INP は AVDD +1,957 → +234 fF、VBP +535 → +18 fF、BLP +156 → +3 fF。チップは DRC、穴埋め後の全 DRC、KLayout によるチップ全体の LVS とコアの LVS、precheck（pre_20261119_r13）を通過。r13 の PSRR（typical、コーナー、モンテカルロ）と、Magic／Netgen によるチップ全体の LVS を実行中。INN の余分を INP に付加した診断 D（r12 のデッキ）は B と同等であり、変換が加算点間の容量差のみで決まることを確認。発注候補は、r13 が通過するまで r12 のまま。修正までの基板要求は F2 の (4)（約 40 nV/√Hz、51 kΩ ∥ 47 nF で約 22 nV/√Hz）。
 - **クロック線と敏感な網**（11/19、図 48）：チップ全体を目視確認。NCDB が VCM／VBCM の隣を並走する箇所は、修正しないことを推奨し、判断を仰いでいる。
 - 未確認事項：
   - 遅延込み（SDF）のゲートレベル（11/19、ユーザーからの依頼。マクロを再実行して SDF を作成し、3 コーナーで実行中）

diff --git a/first_tapeout_eeg/documentation/gf180_viz_20261024.md b/first_tapeout_eeg/documentation/gf180_viz_20261024.md
@@ -108,6 +108,7 @@ gf180/tools/venv310/bin/python gf180/tapeout/viz/crossings_fig.py plot
   - 46（新しい図）：電源の除去（`psrr_fig.py`）。AVDD と DVDD のレギュレータに 10 mV pk の 4 音（1 kHz と、チョッパの 1〜3 倍の高調波のそば）を乗せた typical の 4 本（電極は釣り合いと ELP に 51 kΩ ∥ 47 nF）。(a) AVDD、釣り合いの帯域内の出力の波形（129.25 kHz と 385.75 kHz が 1.25 kHz と 1.75 kHz に戻る）、(b) 音ごとの PSRR、(c) 1 kHz の脚のアドミタンスから延ばした帯域内の PSRR、(d) AFE の雑音に 5 % 足すレギュレータの雑音（帯域内と、チョッパの高調波のそば）、(e) モンテカルロのダイと MOS の角（AVDD、釣り合い。基準なしで単独に当てはめる）の折り返した音と、チョッパの間の変換、(f) チョッパの間の変換と、脚の AVDD への容量の内訳。矢印と並列の記号は Helvetica Neue にないので、「out at」と「||」と書いた。11/19 の 3 時にモンテカルロの最初の 4 ダイを、4 時 55 分に残りの 4 ダイを、8 時に MOS の角 4 つを (e) に足して仕上げた（12 本）
   - 47（新しい図、途中の版）：変換の出どころ（`psrr_diag_fig.py`、診断）。(a) 増幅器の加算点の抽出の容量（INN と INP）、(b) INN を INP にそろえた診断 A、B のチョッパの間の変換と、静的な見積もり、(c) 帯域に戻る音と、そこに許せる雑音、(d) MOS の角の変換と PDK の MIM の角、(e) 場所（コアの上の INN の Metal3 と Metal4、INP の Metal5、AVDD の n-well と Metal5、VBP のポリ）、(f) 数。C（ELP に 51 kΩ ∥ 47 nF）は回している
   - 47（仕上げ、11/19 の昼）：C（B と同じにそろえ、ELP に 51 kΩ ∥ 47 nF）を (c) の下の行と (f) に入れた。128 kHz のそばは 74.6 dB（typical 47.5）、384 kHz のそばは 82.5 dB（53.6）、許せる雑音は 605 nV/√Hz（26）。1 kHz は 58.2 dB（58.1）で変わらない（ピンで脚の不釣り合いから入る分）。注に、C のチョッパの間の値が当てはめで入れ替わること（帯域内の値は合う）を足した
+  - 47（D の追加、11/19 の夕方）：INN の余分を INP に付加した診断 D を (b)、(c)、(f) に追加。128 kHz 近傍 77.7 dB、変換 0.060 V/V で B（78.0 dB、0.058 V/V）と同等であり、変換は加算点間の容量の差のみで決まる。(b) の注記を 3 行に折り、B と D の重なりを解消。
   - 48（新しい図、13 回目の最初の図、11/19）：クロックとデータの線と敏感な網（`clocklines_fig.py`、チェックリストの目視）。(a) チップ全体の網を種類ごとに（デジタルのマクロは除く）、(b)(c) AFE の南と東の通路の束（NCDB が VCM と VBCM の隣）、(d) 増幅器のコア（r13 の加算点の帯。スイッチする網の形は 0）、(e) r12 の typical の起動で、AFE の端子の VCM／VBCM／BLP が NCDB の縁で動く形、(f) 敏感な網とスイッチする網の抽出の結合。置き場所は `figures/gf180/r13_20261119/viz/`。
 
 ## 図の決まり
@@ -166,7 +167,7 @@ gf180/tools/venv310/bin/python gf180/tapeout/viz/crossings_fig.py plot
 | 44 | cmrr | 同相の除去と電極の不釣り合い：電極換算の出力と脚の電流、脚 1 本から見た同相のアドミタンス、不釣り合いに対する CMRR（12 回目から） |
 | 45 | electrode_start | 電極に抵抗とコンデンサがあるときの起動：ピンの差動、ADC の入力、電極の電流、M ごとのホストの読み（12 回目から） |
 | 46 | psrr | 電源の除去：AVDD と DVDD のレギュレータのリップル、音ごとの PSRR、帯域内の PSRR、レギュレータに許せる雑音、ダイと角（12 回目から） |
-| 47 | psrr_diag | 電源の除去の診断：チョッパの間の変換の出どころ（加算点の抽出の容量、INN を INP にそろえたデッキ、MIM の角）（12 回目から） |
+| 47 | psrr_diag | 電源の除去の診断：チョッパの間の変換の出どころ（加算点の抽出の容量、INN を INP にそろえたデッキ、INP を INN にそろえたデッキ（D）、MIM の角）（12 回目から） |
 | 48 | clock_lines | クロックとデータの線と敏感な網：チップ全体の網の種類、AFE の南と東の通路、増幅器のコア、AFE の端子の VCM／VBCM の動き、抽出の結合（13 回目から） |
 
 ## 読むときの注意
